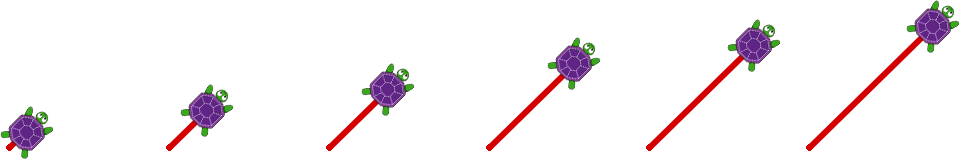
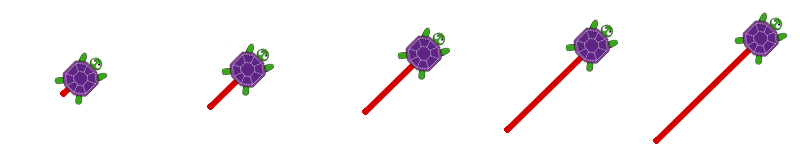
New images and layout for menu

diff --git a/public/src/js/app/views/popups/settingsmenupanel.js b/public/src/js/app/views/popups/settingsmenupanel.js
@@ -27,10 +27,15 @@ StepLengths){
 	
 	PhaserComponents.Utils.extends(SettingsMenuPanel, PhaserComponents.Display.Container);
 
-	SettingsMenuPanel.Y0 = 				55;
-	SettingsMenuPanel.Y1 = 				170;
-	SettingsMenuPanel.Y2 = 				285;
-	SettingsMenuPanel.Y3 = 				400;
+	SettingsMenuPanel.Y0 = 				[85, 95];
+	SettingsMenuPanel.Y1 = 				[190, 230];
+	SettingsMenuPanel.Y2 = 				[295, 375];
+	SettingsMenuPanel.Y3 = 				[400, 400];
+
+	SettingsMenuPanel.Y4 = 				[124, 163];
+	SettingsMenuPanel.Y5 = 				[124, 163];
+	SettingsMenuPanel.Y6 = 				[283, 311];
+
 	SettingsMenuPanel.SLIDER_WIDTH =	210;
 	SettingsMenuPanel.SLIDER_HEIGHT = 	40;
 
@@ -64,7 +69,7 @@ StepLengths){
 	SettingsMenuPanel.prototype.addSlider = function(){
 		var middle, bounds, options;
 		middle = this.bounds.x + this.bounds.w/2 - (OkButton.WIDTH/2);
-		bounds = {"x":middle, "y":this.bounds.y + SettingsMenuPanel.Y1 - 10, "w":SettingsMenuPanel.SLIDER_WIDTH, "h":SettingsMenuPanel.SLIDER_HEIGHT};
+		bounds = {"x":middle, "y":this.bounds.y + SettingsMenuPanel.Y1[this.showDiag ? 0:1] - 10, "w":SettingsMenuPanel.SLIDER_WIDTH, "h":SettingsMenuPanel.SLIDER_HEIGHT};
 		options = {"handle":Assets.SLIDERHANDLE, "sliderbg":Assets.SLIDERBG, "sliderhl":Assets.SLIDERHL, "model": this.modelFacade.get(ModelConsts.STEPLENGTH), "num":StepLengths.ALL.length - 1, "bounds":bounds};
 		options.handleSize = {'w':40, 'h':40};
 		this.lengthSlider = new PhaserComponents.Display.Slider(options);
@@ -74,7 +79,7 @@ StepLengths){
 	SettingsMenuPanel.prototype.addDiagToggle = function(){
 		var middle, bounds;
 		middle = this.bounds.x + this.bounds.w/2 - (PhaserComponents.Display.ToggleButton.WIDTH/2);
-		bounds = {"x":middle, "y":this.bounds.y + SettingsMenuPanel.Y3 - 15};
+		bounds = {"x":middle, "y":this.bounds.y + SettingsMenuPanel.Y3[this.showDiag ? 0:1] - 15};
 		this.diagToggle = new PhaserComponents.Display.ToggleButton({"asset":"toggle", "model": this.modelFacade.get(ModelConsts.DIAG), "bounds":bounds});
 		this.view.add(this.diagToggle.view);
 	};
@@ -82,7 +87,7 @@ StepLengths){
 	SettingsMenuPanel.prototype.addProgToggle = function(){
 		var middle, bounds;
 		middle = this.bounds.x + this.bounds.w/2 - (PhaserComponents.Display.ToggleButton.WIDTH/2);
-		bounds = {"x":middle, "y":this.bounds.y + SettingsMenuPanel.Y0 - 15};
+		bounds = {"x":middle, "y":this.bounds.y + SettingsMenuPanel.Y0[this.showDiag ? 0:1] - 15};
 		this.progToggle = new PhaserComponents.Display.ToggleButton({"asset":"toggle", "model": this.modelFacade.get(ModelConsts.ALLOW_PROG), "bounds":bounds});
 		this.view.add(this.progToggle.view);
 	};
@@ -90,28 +95,28 @@ StepLengths){
 	SettingsMenuPanel.prototype.addGridToggle = function(){
 		var middle, bounds;
 		middle = this.bounds.x + this.bounds.w/2 - (PhaserComponents.Display.ToggleButton.WIDTH/2);
-		bounds = {"x":middle, "y":this.bounds.y + SettingsMenuPanel.Y2 - 15};
+		bounds = {"x":middle, "y":this.bounds.y + SettingsMenuPanel.Y2[this.showDiag ? 0:1] - 15};
 		this.gridToggle = new PhaserComponents.Display.ToggleButton({"asset":"toggle", "model": this.modelFacade.get(ModelConsts.GRID), "bounds":bounds});
 		this.view.add(this.gridToggle.view);
 	};
 
 	SettingsMenuPanel.prototype.addDiagLabel = function(){
-		this.diagLabel = PhaserComponents.TextFactory.make('small', this.game, this.bounds.x + 50, this.bounds.y + SettingsMenuPanel.Y3, "Stretch diags");
+		this.diagLabel = PhaserComponents.TextFactory.make('small', this.game, this.bounds.x + 50, this.bounds.y + SettingsMenuPanel.Y3[this.showDiag ? 0:1], "Stretch diags");
 		this.group.add(this.diagLabel);
 	};
 
 	SettingsMenuPanel.prototype.addProgLabel = function(){
-		this.progLabel = PhaserComponents.TextFactory.make('small', this.game, this.bounds.x + 50, this.bounds.y + SettingsMenuPanel.Y0, "Allow programming");
+		this.progLabel = PhaserComponents.TextFactory.make('small', this.game, this.bounds.x + 50, this.bounds.y + SettingsMenuPanel.Y0[this.showDiag ? 0:1], "Allow programming");
 		this.group.add(this.progLabel);
 	};
 
 	SettingsMenuPanel.prototype.addGridLabel = function(){
-		this.gridLabel = PhaserComponents.TextFactory.make('small', this.game, this.bounds.x + 50, this.bounds.y + SettingsMenuPanel.Y2, "Toggle grid");
+		this.gridLabel = PhaserComponents.TextFactory.make('small', this.game, this.bounds.x + 50, this.bounds.y + SettingsMenuPanel.Y2[this.showDiag ? 0:1], "Toggle grid");
 		this.group.add(this.gridLabel);
 	};
 
 	SettingsMenuPanel.prototype.addStepLengthLabel = function(){
-		this.stepLengthLabel = PhaserComponents.TextFactory.make('small', this.game, this.bounds.x + 50, this.bounds.y + SettingsMenuPanel.Y1, "Step length");
+		this.stepLengthLabel = PhaserComponents.TextFactory.make('small', this.game, this.bounds.x + 50, this.bounds.y + SettingsMenuPanel.Y1[this.showDiag ? 0:1], "Step length");
 		this.group.add(this.stepLengthLabel);
 	};
 	
@@ -129,21 +134,22 @@ StepLengths){
 	};
 
 	SettingsMenuPanel.prototype.addSettings1 = function () {
-		var bounds = {'x':this.bounds.x + this.bounds.w - 170, 'y':this.bounds.y + 115, 'w':160, 'h':160};
-		this.settings1 = new PhaserComponents.Display.MovieClip({"bounds":bounds, "numFrames":6, "asset":Assets.SETTINGS1});
+		var bounds = {'x':this.bounds.x + this.bounds.w - 170, 'y':this.bounds.y + SettingsMenuPanel.Y4[this.showDiag ? 0:1], 'w':160, 'h':160};
+		this.settings1 = new PhaserComponents.Display.MovieClip({"bounds":bounds, "numFrames":StepLengths.ALL.length, "asset":Assets.SETTINGS1});
 		this.group.add(this.settings1.view);
 		this.setSettings1();
 	};
 
 	SettingsMenuPanel.prototype.addSettings3 = function () {
-		var bounds = {'x':this.bounds.x + this.bounds.w - 170, 'y':this.bounds.y + 5, 'w':160, 'h':160};
+		var bounds = {'x':this.bounds.x + this.bounds.w - 170, 'y':this.bounds.y + SettingsMenuPanel.Y5[this.showDiag ? 0:1], 'w':160, 'h':160};
 		this.settings3 = new PhaserComponents.Display.MovieClip({"bounds":bounds, "numFrames":2, "asset":Assets.SETTINGS3});
+		this.settings3.view.visible = false;
 		this.group.add(this.settings3.view);
 		this.setSettings3();
 	};
 
 	SettingsMenuPanel.prototype.addSettings2 = function () {
-		var bounds = {'x':this.bounds.x + this.bounds.w - 170, 'y':this.bounds.y + 305, 'w':160, 'h':160};
+		var bounds = {'x':this.bounds.x + this.bounds.w - 170, 'y':this.bounds.y + SettingsMenuPanel.Y6[this.showDiag ? 0:1], 'w':160, 'h':160};
 		this.settings2 = new PhaserComponents.Display.MovieClip({"bounds":bounds, "numFrames":6, "asset":Assets.SETTINGS2});
 		this.group.add(this.settings2.view);
 		this.setSettings2();
